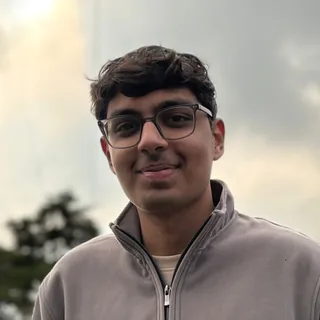
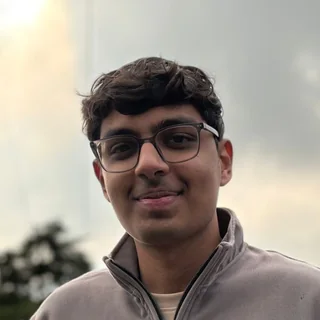
Scale the Hohman layout up, centre the portrait, shorten card text
- Scale the design by 1.125 on larger screens (fonts and spacing together)
  so the wider page keeps Hohman's proportions; phones stay at 14px
- Re-crop the portrait centred on the face, 9rem, with a 2x source
- Balance the subtitle across two lines
- Short titles and taglines on the publication cards; full titles as tooltips
- Smaller card buttons

diff --git a/index.html b/index.html
@@ -28,10 +28,10 @@
 		<!-- ── Introduction ── -->
 		<section id="intro" class="l-text" aria-labelledby="intro-title">
 			<div id="intro-title-wrapper">
-				<img id="intro-image" src="assets/img/portrait.webp" width="320" height="320" alt="Portrait of Shreyansh Modi, smiling, wearing glasses and a grey zip-up sweater outdoors." />
+				<img id="intro-image" src="assets/img/portrait.webp" srcset="assets/img/portrait.webp 320w, assets/img/portrait@2x.webp 480w" sizes="(max-width: 768px) 6rem, 9rem" width="320" height="320" alt="Portrait of Shreyansh Modi, smiling, wearing glasses and a grey zip-up sweater outdoors." />
 				<div id="intro-title-text">
 					<h1 id="intro-title">Shreyansh Modi</h1>
-					<p id="intro-subtitle">Computer vision &amp; ML security researcher at IIT Roorkee</p>
+					<p id="intro-subtitle">Computer vision &amp; ML security researcher at IIT&nbsp;Roorkee</p>
 					<ul class="socials" aria-label="Profiles and contact">
 						<li><a class="social-link social-link--email" href="mailto:shreyansh_m@ee.iitr.ac.in" aria-label="Email" title="Email"><svg class="fa-icon" viewBox="0 0 512 512" aria-hidden="true"><path fill="currentColor" d="M502.3 190.8c3.9-3.1 9.7-.2 9.7 4.7V400c0 26.5-21.5 48-48 48H48c-26.5 0-48-21.5-48-48V195.6c0-5 5.7-7.8 9.7-4.7 22.4 17.4 52.1 39.5 154.1 113.6 21.1 15.4 56.7 47.8 92.2 47.6 35.7.3 72-32.8 92.3-47.6 102-74.1 131.6-96.3 154-113.7zM256 320c23.2.4 56.6-29.2 73.4-41.4 132.7-96.3 142.8-104.7 173.4-128.7 5.8-4.5 9.2-11.5 9.2-18.9v-19c0-26.5-21.5-48-48-48H48C21.5 64 0 85.5 0 112v19c0 7.4 3.4 14.3 9.2 18.9 30.6 23.9 40.7 32.4 173.4 128.7 16.8 12.2 50.2 41.8 73.4 41.4z" /></svg></a></li>
 						<li><a class="social-link social-link--twitter" href="https://twitter.com/shrrynsh" aria-label="X (Twitter)" title="X (Twitter)"><svg class="fa-icon" viewBox="0 0 512 512" aria-hidden="true"><path fill="currentColor" d="M459.37 151.716c.325 4.548.325 9.097.325 13.645 0 138.72-105.583 298.558-298.558 298.558-59.452 0-114.68-17.219-161.137-47.106 8.447.974 16.568 1.299 25.34 1.299 49.055 0 94.213-16.568 130.274-44.832-46.132-.975-84.792-31.188-98.112-72.772 6.498.974 12.995 1.624 19.818 1.624 9.421 0 18.843-1.3 27.614-3.573-48.081-9.747-84.143-51.98-84.143-102.985v-1.299c13.969 7.797 30.214 12.67 47.431 13.319-28.264-18.843-46.781-51.005-46.781-87.391 0-19.492 5.197-37.36 14.294-52.954 51.655 63.675 129.3 105.258 216.365 109.807-1.624-7.797-2.599-15.918-2.599-24.04 0-57.828 46.782-104.934 104.934-104.934 30.213 0 57.502 12.67 76.67 33.137 23.715-4.548 46.456-13.32 66.599-25.34-7.798 24.366-24.366 44.833-46.132 57.827 21.117-2.273 41.584-8.122 60.426-16.243-14.292 20.791-32.161 39.308-52.628 54.253z" /></svg></a></li>
@@ -70,8 +70,8 @@
 					<div class="cover-image"><img src="assets/img/papers/rethinking-cd.webp" width="1320" height="440" loading="lazy" alt="Diagram of visual contrastive decoding: logits from the original image and from a distorted image are contrasted, removing the hallucinated object 'surfboards' from the model's predictions." /></div>
 					<div class="cover-inner">
 						<div>
-							<h3 class="cover-title">Rethinking the Effectiveness of Contrastive Decoding in Mitigating Hallucinations in MLLMs</h3>
-							<p class="cover-subtitle">On LLaVA-1.5, contrastive decoding is 94% greedy-equivalent; its gains trace to a shift in decoding behaviour, not hallucination mitigation.</p>
+							<h3 class="cover-title" title="Rethinking the Effectiveness of Contrastive Decoding in Mitigating Hallucinations in MLLMs">Rethinking Contrastive Decoding</h3>
+							<p class="cover-subtitle">Its gains in MLLMs come from decoding behaviour, not hallucination mitigation</p>
 							<p class="cover-authors">A. Bendre, <b>S. Modi</b>, G. Gupta, K. Grover, C. Aggarwal</p>
 						</div>
 						<div>
@@ -84,8 +84,8 @@
 					<div class="cover-image"><a href="https://arxiv.org/abs/2605.31162"><img src="assets/img/papers/guidance-perceptual-editing.webp" width="988" height="329" loading="lazy" alt="Method diagram: a noisy latent goes through a normal U-Net forward pass and a patched pass that adds a scaled concept vector at the bottleneck; the two predictions are combined with classifier-free guidance before each sampler step." /></a></div>
 					<div class="cover-inner">
 						<div>
-							<h3 class="cover-title"><a href="https://arxiv.org/abs/2605.31162">Guidance for Low-Level Perceptual Editing in Unconditional Diffusion Models</a></h3>
-							<p class="cover-subtitle">Training-free contrast, saturation and sharpness edits from concept vectors in a DDPM’s U-Net bottleneck.</p>
+							<h3 class="cover-title"><a href="https://arxiv.org/abs/2605.31162" title="Guidance for Low-Level Perceptual Editing in Unconditional Diffusion Models">Perceptual Editing Guidance</a></h3>
+							<p class="cover-subtitle">Training-free contrast, saturation and sharpness edits in unconditional diffusion</p>
 							<p class="cover-authors"><b>S. Modi</b>, A. Tomar, A. Aggarwal</p>
 						</div>
 						<div>
@@ -102,8 +102,8 @@
 					<div class="cover-image"><a href="https://arxiv.org/abs/2606.08777"><img src="assets/img/papers/counterfactuals.webp" width="1116" height="372" loading="lazy" alt="Method diagram: a factual image is encoded by a vision encoder; Gaussian latent interventions perturb the embedding, and a counterfactual generator turns each perturbed embedding into a counterfactual input for the LLM." /></a></div>
 					<div class="cover-inner">
 						<div>
-							<h3 class="cover-title"><a href="https://arxiv.org/abs/2606.08777">How Many Counterfactuals Does It Take? Probing VLM Hallucinations Through Circuits and Causal Effects</a></h3>
-							<p class="cover-subtitle">Activation patching and causal influence scores localise the attention heads and MLP layers behind VLM hallucinations.</p>
+							<h3 class="cover-title"><a href="https://arxiv.org/abs/2606.08777" title="How Many Counterfactuals Does It Take? Probing VLM Hallucinations Through Circuits and Causal Effects">How Many Counterfactuals?</a></h3>
+							<p class="cover-subtitle">Probing VLM hallucinations through circuits and causal effects</p>
 							<p class="cover-authors">A. Gupta, S. Singh, A. Sinha, <b>S. Modi</b>, A. Tomar</p>
 						</div>
 						<div>

diff --git a/assets/css/site.css b/assets/css/site.css
@@ -10,7 +10,7 @@ html, body { margin: 0; padding: 0; }
 html {
 	font-family: -apple-system, BlinkMacSystemFont, "Segoe UI", Roboto, Helvetica, Arial, sans-serif,
 		"Apple Color Emoji", "Segoe UI Emoji", "Segoe UI Symbol";
-	font-size: 16px;
+	font-size: 18px;
 	line-height: 1.5;
 	-webkit-text-size-adjust: 100%;
 }
@@ -38,14 +38,15 @@ a:hover, a:focus { color: #00449e; text-decoration: underline; text-decoration-c
 
 /* ── Page grid: a centred text column inside a wider page column ── */
 .page {
+	--track: 3.5rem;
 	display: grid;
 	grid-template-columns:
 		[screen-start] 1fr
-		[page-start kicker-start] minmax(0, 3.5rem)
-		[middle-start] minmax(0, 3.5rem)
-		[text-start kicker-end] repeat(8, minmax(0, 3.5rem))
-		[text-end gutter-start] minmax(0, 3.5rem)
-		[middle-end] minmax(0, 3.5rem)
+		[page-start kicker-start] minmax(0, var(--track))
+		[middle-start] minmax(0, var(--track))
+		[text-start kicker-end] repeat(8, minmax(0, var(--track)))
+		[text-end gutter-start] minmax(0, var(--track))
+		[middle-end] minmax(0, var(--track))
 		[page-end gutter-end] 1fr [screen-end];
 	column-gap: 1.5rem;
 }
@@ -76,8 +77,8 @@ a:hover, a:focus { color: #00449e; text-decoration: underline; text-decoration-c
 }
 #intro-image {
 	flex: 0 0 auto;
-	width: 8rem;
-	height: 8rem;
+	width: 9rem;
+	height: 9rem;
 	border-radius: 50%;
 	object-fit: cover;
 }
@@ -85,7 +86,7 @@ a:hover, a:focus { color: #00449e; text-decoration: underline; text-decoration-c
 	display: flex;
 	flex-direction: column;
 	justify-content: center;
-	margin-left: 1rem;
+	margin-left: 1.5rem;
 }
 #intro-title {
 	margin: 0;
@@ -98,6 +99,7 @@ a:hover, a:focus { color: #00449e; text-decoration: underline; text-decoration-c
 	font-size: 1.57rem;
 	line-height: 1.3;
 	color: #767676;
+	text-wrap: balance;
 }
 
 .socials {
@@ -197,7 +199,7 @@ a:hover, a:focus { color: #00449e; text-decoration: underline; text-decoration-c
 .cover {
 	display: flex;
 	flex-direction: column;
-	min-height: 405px;
+	min-height: 22.5rem;
 	border-radius: 1.5rem;
 	background: rgba(0, 0, 0, 0.025);
 	transition: all 0.2s ease-in-out;
@@ -244,7 +246,7 @@ a:hover, a:focus { color: #00449e; text-decoration: underline; text-decoration-c
 	display: flex;
 	flex-wrap: wrap;
 	gap: 0.25rem;
-	font-size: 0.75rem;
+	font-size: 0.7rem;
 }
 .pub-misc a {
 	padding: 0.25rem 0.55rem;
@@ -314,7 +316,7 @@ a:hover, a:focus { color: #00449e; text-decoration: underline; text-decoration-c
 	position: absolute;
 	top: 0.75rem;
 	right: 100%;
-	width: 8.5rem;
+	width: calc(2 * var(--track) + 1.5rem);
 	margin-right: 1.5rem;
 	font-size: 0.7rem;
 	line-height: 1.4;
@@ -372,7 +374,9 @@ footer.page {
 }
 
 @media (max-width: 768px) {
-	#intro-image { width: 5rem; height: 5rem; }
+	#intro-image { width: 6rem; height: 6rem; }
+	#intro-title-text { margin-left: 1rem; }
+	.socials { gap: 0.35rem; }
 	#intro-title { font-size: 2rem; }
 	#intro-subtitle { font-size: 1.35rem; }
 	#quick-links { display: flex; flex-wrap: wrap; }
